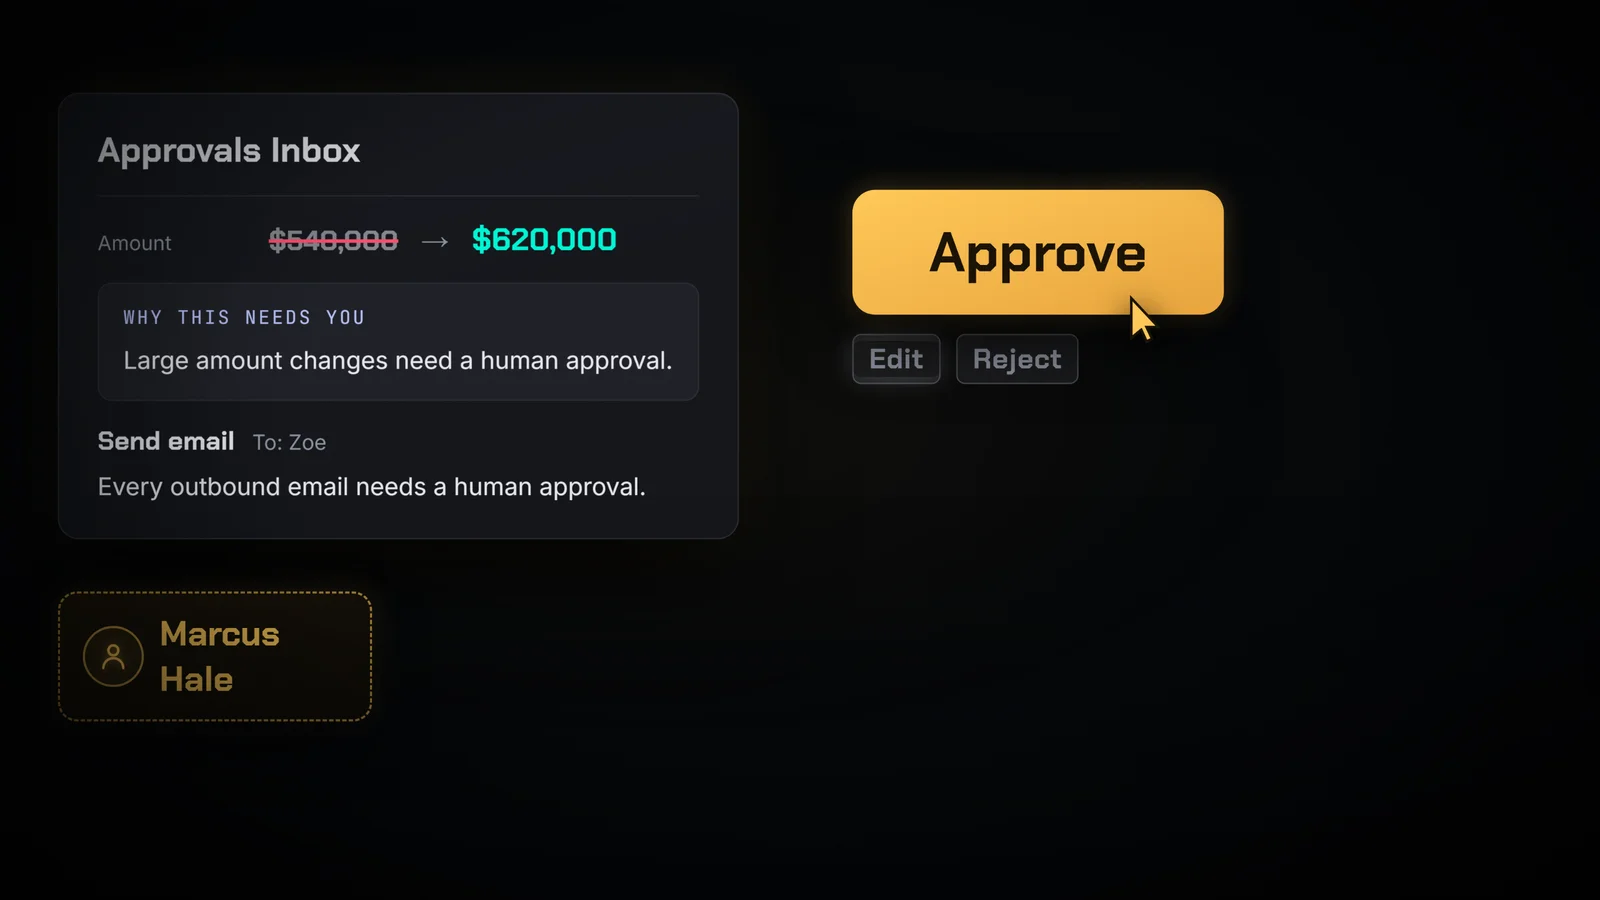
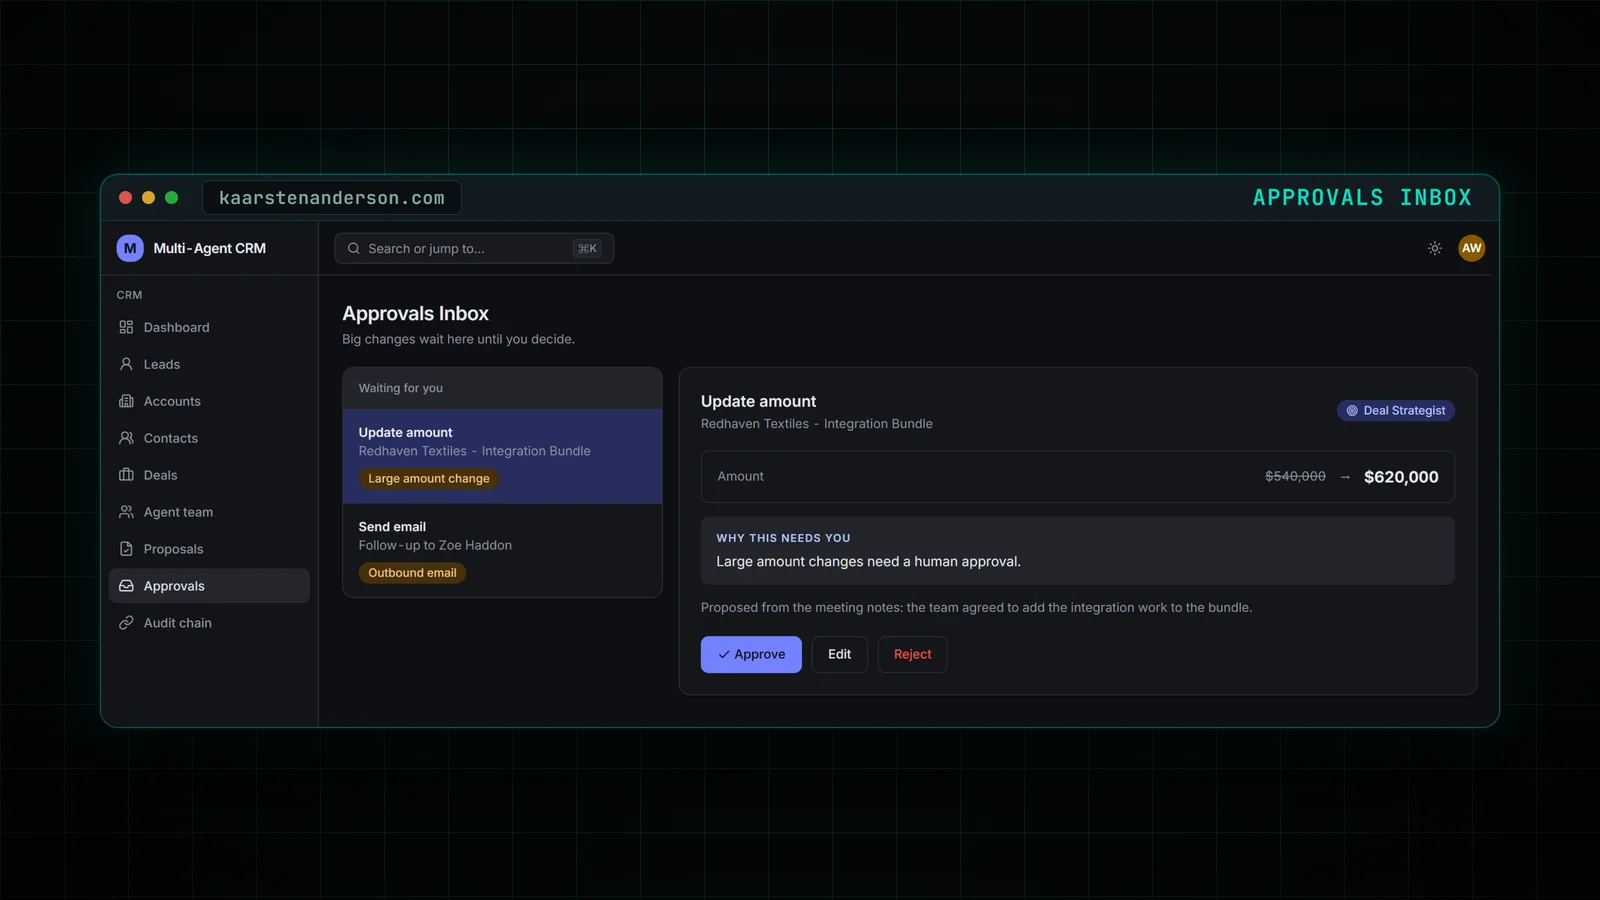
feat(project): show the crm agent features as product screens

diff --git a/src/content/projects/agentic-crm.ts b/src/content/projects/agentic-crm.ts
@@ -143,8 +143,8 @@ export const project: Project = {
           tone: 'model',
           text: 'The Supervisor routes each job to the right specialist: Lead Qualifier, Account Researcher, Deal Strategist, Meeting Analyst, Email Composer, Compliance Reviewer, Data Steward and Forecast Analyst. Each one does one sales job well.',
           image: img(2, {
-            en: 'Illustration of a Supervisor agent connected to its team of specialist agents',
-            es: 'Ilustración de un agente Supervisor conectado a su equipo de agentes especialistas',
+            en: 'Mockup of the agent team screen: a Supervisor connected to its specialist agents',
+            es: 'Maqueta de la pantalla del equipo de agentes: un Supervisor conectado a sus agentes especialistas',
           }),
         },
         {
@@ -153,8 +153,8 @@ export const project: Project = {
           tone: 'accent',
           text: 'Agents never edit your CRM directly: every change arrives as a proposal. Plain rules, not the AI, decide which ones apply and which ones wait for you.',
           image: img(3, {
-            en: 'Illustration of change proposals passing a policy gate that applies some and holds others',
-            es: 'Ilustración de propuestas de cambio pasando una puerta de reglas que aplica unas y retiene otras',
+            en: 'Mockup of the change proposals screen: some changes applied, others waiting for approval, with the policy rules alongside',
+            es: 'Maqueta de la pantalla de propuestas de cambio: unos cambios aplicados, otros esperando aprobación, con las reglas de política al lado',
           }),
         },
         {
@@ -163,8 +163,8 @@ export const project: Project = {
           tone: 'human',
           text: 'Closing a deal, a large amount change or any outbound email lands in your Approvals Inbox. You see exactly what changes and why, then approve, edit or reject.',
           image: img(4, {
-            en: 'Illustration of an approvals inbox showing an amount change and the reason it needs a human decision',
-            es: 'Ilustración de una bandeja de aprobaciones con un cambio de importe y el motivo por el que necesita una decisión humana',
+            en: 'Mockup of the Approvals Inbox with an amount change, the reason it needs a human decision and Approve, Edit and Reject buttons',
+            es: 'Maqueta del Approvals Inbox con un cambio de importe, el motivo por el que necesita una decisión humana y los botones Aprobar, Editar y Rechazar',
           }),
         },
         {
@@ -173,8 +173,8 @@ export const project: Project = {
           tone: 'accent',
           text: 'Every change, decision and approval joins a tamper-evident Audit Chain. Any edit to the record is detected, so you can always show who changed what, and why.',
           image: img(5, {
-            en: 'Illustration of a tamper-evident audit chain linking each logged change in order',
-            es: 'Ilustración de una cadena de auditoría a prueba de manipulaciones que enlaza en orden cada cambio registrado',
+            en: 'Mockup of the audit chain screen listing each change in order, verified and linked to the previous entry',
+            es: 'Maqueta de la pantalla de la cadena de auditoría con cada cambio en orden, verificado y enlazado con la entrada anterior',
           }),
         },
         {
@@ -248,8 +248,8 @@ export const project: Project = {
           tone: 'model',
           text: 'El Supervisor envía cada tarea al especialista adecuado: Lead Qualifier, Account Researcher, Deal Strategist, Meeting Analyst, Email Composer, Compliance Reviewer, Data Steward y Forecast Analyst. Cada uno hace bien una tarea de ventas.',
           image: img(2, {
-            en: 'Illustration of a Supervisor agent connected to its team of specialist agents',
-            es: 'Ilustración de un agente Supervisor conectado a su equipo de agentes especialistas',
+            en: 'Mockup of the agent team screen: a Supervisor connected to its specialist agents',
+            es: 'Maqueta de la pantalla del equipo de agentes: un Supervisor conectado a sus agentes especialistas',
           }),
         },
         {
@@ -258,8 +258,8 @@ export const project: Project = {
           tone: 'accent',
           text: 'Los agentes nunca editan tu CRM directamente: cada cambio llega como una propuesta. Reglas claras, no la IA, deciden cuáles se aplican y cuáles te esperan.',
           image: img(3, {
-            en: 'Illustration of change proposals passing a policy gate that applies some and holds others',
-            es: 'Ilustración de propuestas de cambio pasando una puerta de reglas que aplica unas y retiene otras',
+            en: 'Mockup of the change proposals screen: some changes applied, others waiting for approval, with the policy rules alongside',
+            es: 'Maqueta de la pantalla de propuestas de cambio: unos cambios aplicados, otros esperando aprobación, con las reglas de política al lado',
           }),
         },
         {
@@ -268,8 +268,8 @@ export const project: Project = {
           tone: 'human',
           text: 'Cerrar un trato, un cambio grande de importe o cualquier email saliente llega a tu Approvals Inbox. Ves exactamente qué cambia y por qué, y apruebas, editas o rechazas.',
           image: img(4, {
-            en: 'Illustration of an approvals inbox showing an amount change and the reason it needs a human decision',
-            es: 'Ilustración de una bandeja de aprobaciones con un cambio de importe y el motivo por el que necesita una decisión humana',
+            en: 'Mockup of the Approvals Inbox with an amount change, the reason it needs a human decision and Approve, Edit and Reject buttons',
+            es: 'Maqueta del Approvals Inbox con un cambio de importe, el motivo por el que necesita una decisión humana y los botones Aprobar, Editar y Rechazar',
           }),
         },
         {
@@ -278,8 +278,8 @@ export const project: Project = {
           tone: 'accent',
           text: 'Cada cambio, decisión y aprobación entra en una Audit Chain a prueba de manipulaciones. Cualquier edición del registro se detecta, así que siempre puedes mostrar quién cambió qué y por qué.',
           image: img(5, {
-            en: 'Illustration of a tamper-evident audit chain linking each logged change in order',
-            es: 'Ilustración de una cadena de auditoría a prueba de manipulaciones que enlaza en orden cada cambio registrado',
+            en: 'Mockup of the audit chain screen listing each change in order, verified and linked to the previous entry',
+            es: 'Maqueta de la pantalla de la cadena de auditoría con cada cambio en orden, verificado y enlazado con la entrada anterior',
           }),
         },
         {

diff --git a/docs/qa/agentic-crm.md b/docs/qa/agentic-crm.md
@@ -26,9 +26,13 @@
 | 13-deals-phone-390 | pass |
 | 14-command-palette-dark | first take listed "Style guide" -> hidden, retaken, pass; not published (optional slot unused) |
 
+## Designed screens (features 2-5)
+
+The product has no agent, proposal, approval or audit screens yet. Features 2-5 use authored HTML screens (agent team, change proposals, approvals inbox, audit chain) rendered inside the running product's real shell (sidebar, header, fonts, tokens), kept local like the capture script. They are mockups, labelled as such in the image alts; replace them with real captures once the product ships those screens.
+
 ## Film-derived images
 
-Stills rendered with `scripts/render-stills.mjs` from the Remotion compositions (no captions, no brackets): hook, title, team, gate, inbox, chain. `CrmLoop` is 6.0 s, 1280x720, silent (webm 1.1 MB, mp4 0.55 MB). Loop poster at frame 270; frame 0 and the last frame are the same empty world (seamless).
+Still rendering below is used only for the film poster, hook and loop poster. Stills rendered with `scripts/render-stills.mjs` from the Remotion compositions (no captions, no brackets): hook, title, team, gate, inbox, chain. `CrmLoop` is 6.0 s, 1280x720, silent (webm 1.1 MB, mp4 0.55 MB). Loop poster at frame 270; frame 0 and the last frame are the same empty world (seamless).
 
 ## Checks run
 
